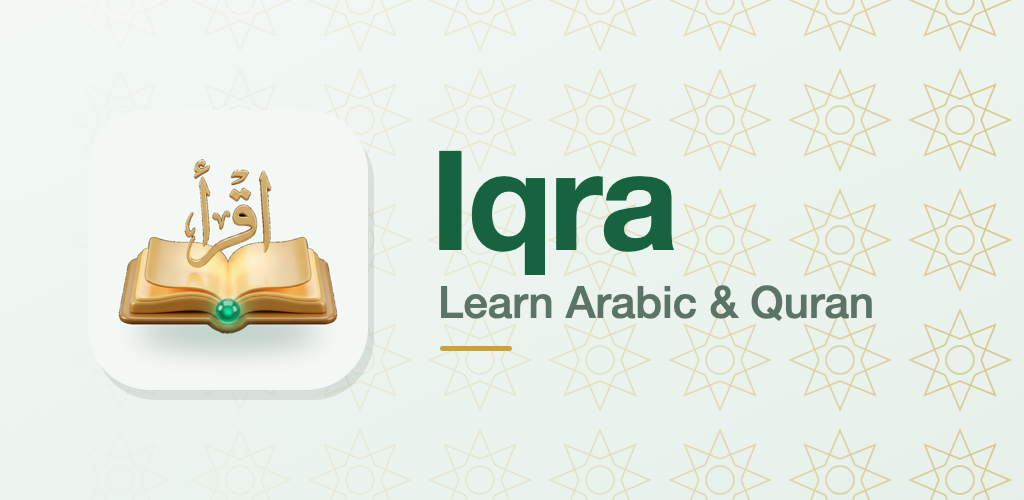
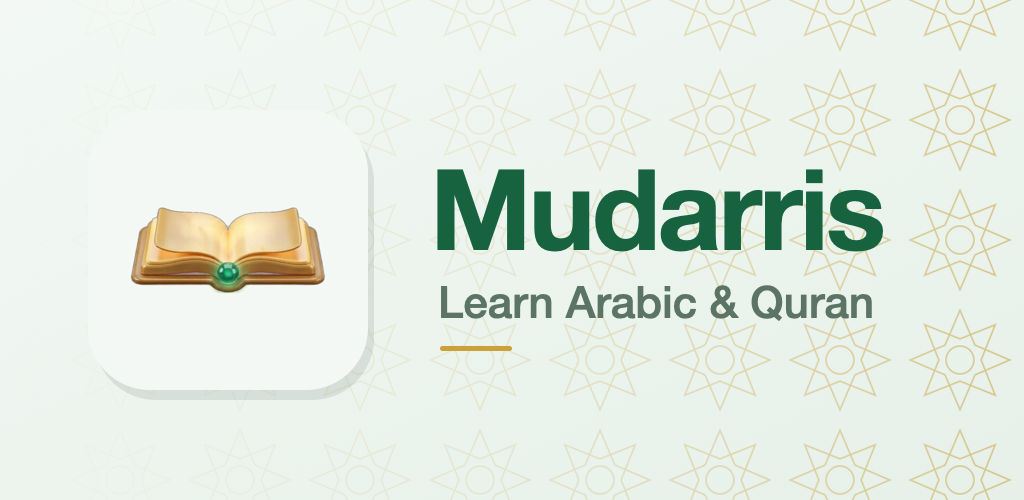
Every Arabic line ends up recorded: learning screens pre-recorded, anything else saved on first use
- scripts/voice/record.ts also records every Arabic string in the learning
  data (alphabet, vocabulary, verbs, grammar, numbers, prayer, tajweed,
  quizzes, reading, calendar), both Arabic voices, both paces.
- The tts function, after making a line, also puts it on the voice CDN
  under the app's own clip name (clipName mirrored), so it is never
  synthesized again and later listeners skip the function. Needs the R2_*
  secrets (set 2026-11-02).
- Play feature graphics and store icon now say Mudarris with the gold book.

Changed region(s): [[0.4062, 0.3, 0.875, 0.57], [0.0938, 0.33, 0.3438, 0.72]]

diff --git a/supabase/functions/tts/index.ts b/supabase/functions/tts/index.ts
@@ -98,6 +98,9 @@ Deno.serve(async (req) => {
     await Promise.allSettled([
       supa.storage.from(BUCKET).upload(path, bytes, { contentType: 'audio/mpeg', upsert: true }),
       supa.from('tts_usage').insert({ user_id: caller.id, chars: text.length }),
+      // And on the voice CDN, under the name the app looks for first, so the
+      // next listener anywhere is served the recording without this function.
+      toVoiceCdn(`v1/${voice}/${clipName(text, voice, prosodyRate)}`, bytes),
     ]);
     return audio(bytes);
   } catch (e) {
@@ -109,6 +112,64 @@ Deno.serve(async (req) => {
 async function sha256(input: string): Promise<string> {
   const digest = await crypto.subtle.digest('SHA-256', new TextEncoder().encode(input));
   return Array.from(new Uint8Array(digest), (b) => b.toString(16).padStart(2, '0')).join('');
+}
+
+/**
+ * The app's clip name (src/services/speech/voicePlan.ts clipName), copied
+ * exactly: the app looks for `v1/<voice>/<this>` on the voice CDN before it
+ * calls here. Lines with a voice revision get a different name in the app,
+ * so a copy saved here under the plain name is simply never asked for.
+ */
+function clipName(spoken: string, voice: string, rate: string): string {
+  const seed = `${voice}|${rate}|${spoken}`;
+  let a = 5381;
+  let b = 0;
+  for (let i = 0; i < seed.length; i++) {
+    const c = seed.charCodeAt(i);
+    a = ((a << 5) + a + c) >>> 0;
+    b = (c + (b << 6) + (b << 16) - b) >>> 0;
+  }
+  return `${a.toString(36)}-${b.toString(36)}-${seed.length.toString(36)}.mp3`;
+}
+
+const enc = new TextEncoder();
+const hex = (buf: ArrayBuffer) => [...new Uint8Array(buf)].map((x) => x.toString(16).padStart(2, '0')).join('');
+const sha256Hex = async (data: Uint8Array | string) =>
+  hex(await crypto.subtle.digest('SHA-256', (typeof data === 'string' ? enc.encode(data) : data) as BufferSource));
+async function hmac(key: Uint8Array | ArrayBuffer, data: string): Promise<ArrayBuffer> {
+  const k = await crypto.subtle.importKey('raw', key as BufferSource, { name: 'HMAC', hash: 'SHA-256' }, false, ['sign']);
+  return crypto.subtle.sign('HMAC', k, enc.encode(data));
+}
+
+/** Put a clip on the voice CDN (Cloudflare R2, S3 API, SigV4). Silent when not configured. */
+async function toVoiceCdn(key: string, body: Uint8Array): Promise<void> {
+  const account = Deno.env.get('R2_ACCOUNT_ID');
+  const id = Deno.env.get('R2_ACCESS_KEY_ID');
+  const secret = Deno.env.get('R2_SECRET_ACCESS_KEY');
+  const bucket = Deno.env.get('R2_BUCKET') ?? 'iqra-voice';
+  if (!account || !id || !secret) return;
+  const host = `${account}.r2.cloudflarestorage.com`;
+  const path = `/${bucket}/${key.split('/').map(encodeURIComponent).join('/')}`;
+  const amzDate = new Date().toISOString().replace(/[:-]|\.\d{3}/g, '');
+  const day = amzDate.slice(0, 8);
+  const payloadHash = await sha256Hex(body);
+  const headers: Record<string, string> = {
+    'cache-control': 'public, max-age=31536000, immutable',
+    'content-type': 'audio/mpeg',
+    host,
+    'x-amz-content-sha256': payloadHash,
+    'x-amz-date': amzDate,
+  };
+  const signed = Object.keys(headers).sort();
+  const canonical = ['PUT', path, '', ...signed.map((h) => `${h}:${headers[h]}`), '', signed.join(';'), payloadHash].join('\n');
+  const scope = `${day}/auto/s3/aws4_request`;
+  const toSign = ['AWS4-HMAC-SHA256', amzDate, scope, await sha256Hex(canonical)].join('\n');
+  let k = await hmac(enc.encode(`AWS4${secret}`), day);
+  for (const part of ['auto', 's3', 'aws4_request']) k = await hmac(k, part);
+  const signature = hex(await hmac(k, toSign));
+  headers.authorization = `AWS4-HMAC-SHA256 Credential=${id}/${scope}, SignedHeaders=${signed.join(';')}, Signature=${signature}`;
+  const res = await fetch(`https://${host}${path}`, { method: 'PUT', headers, body: body as BodyInit });
+  if (!res.ok) console.error('tts: voice CDN put failed', res.status, await res.text());
 }
 
 /** SSML is XML; unescaped prose would break the request. */

diff --git a/scripts/voice/record.ts b/scripts/voice/record.ts
@@ -22,7 +22,7 @@
  */
 import { createHash, createHmac } from 'node:crypto';
 import { execFileSync } from 'node:child_process';
-import { readFileSync, writeFileSync, mkdtempSync } from 'node:fs';
+import { readFileSync, writeFileSync, mkdtempSync, readdirSync, statSync } from 'node:fs';
 import { tmpdir } from 'node:os';
 import { join } from 'node:path';
 import { buildUtterances, type NarratableBlock } from '../../src/services/narrationPlan';
@@ -73,6 +73,37 @@ function duaBlocks(d: (typeof DUAS)[number], lang: 'en' | 'fr'): NarratableBlock
   return blocks;
 }
 
+/** Data the learning screens speak from: everything but the Quran text, stories and duas. */
+const LEARNING_SKIP = [/\/quran\/surahs\//, /\/prophets\//, /\/quranStories\//, /\/duas\//, /\/legal\//, /\/community\//];
+
+function walk(dir: string): string[] {
+  return readdirSync(dir).flatMap((n) => {
+    const p = join(dir, n);
+    return statSync(p).isDirectory() ? walk(p) : p.endsWith('.ts') ? [p] : [];
+  });
+}
+
+/**
+ * Every Arabic string literal in the learning data. A string counts when most
+ * of its letters are Arabic, so an English sentence quoting one Arabic word
+ * is left out; lines a screen builds itself are recorded by the tts function
+ * the first time anyone hears them.
+ */
+export function learningArabic(): string[] {
+  const out = new Set<string>();
+  const literal = /(['"`])((?:\\.|(?!\1).)*?)\1/g;
+  for (const file of walk(join(ROOT, 'src', 'data'))) {
+    if (LEARNING_SKIP.some((re) => re.test(file))) continue;
+    for (const m of readFileSync(file, 'utf8').matchAll(literal)) {
+      const s = m[2].replace(/\\n/g, ' ').trim();
+      const arabic = (s.match(/[\u0621-\u064A]/g) ?? []).length;
+      const latin = (s.match(/[A-Za-z]/g) ?? []).length;
+      if (arabic >= 1 && arabic >= latin * 2) out.add(s);
+    }
+  }
+  return [...out];
+}
+
 export function buildPlan(): Item[] {
   const items = new Map<string, Item>();
   const addArabic = (line: string) => {
@@ -117,6 +148,10 @@ export function buildPlan(): Item[] {
   }
   // The dua's own Arabic player reads the whole dua text.
   for (const d of DUAS) addArabic(d.arabicText);
+  // The learning screens (alphabet, vocabulary, verbs, grammar, numbers,
+  // prayer, tajweed, quizzes, reading, calendar) speak fields of the data
+  // as they are, so every Arabic string in it is recorded.
+  for (const line of learningArabic()) addArabic(line);
   return [...items.values()];
 }
 
